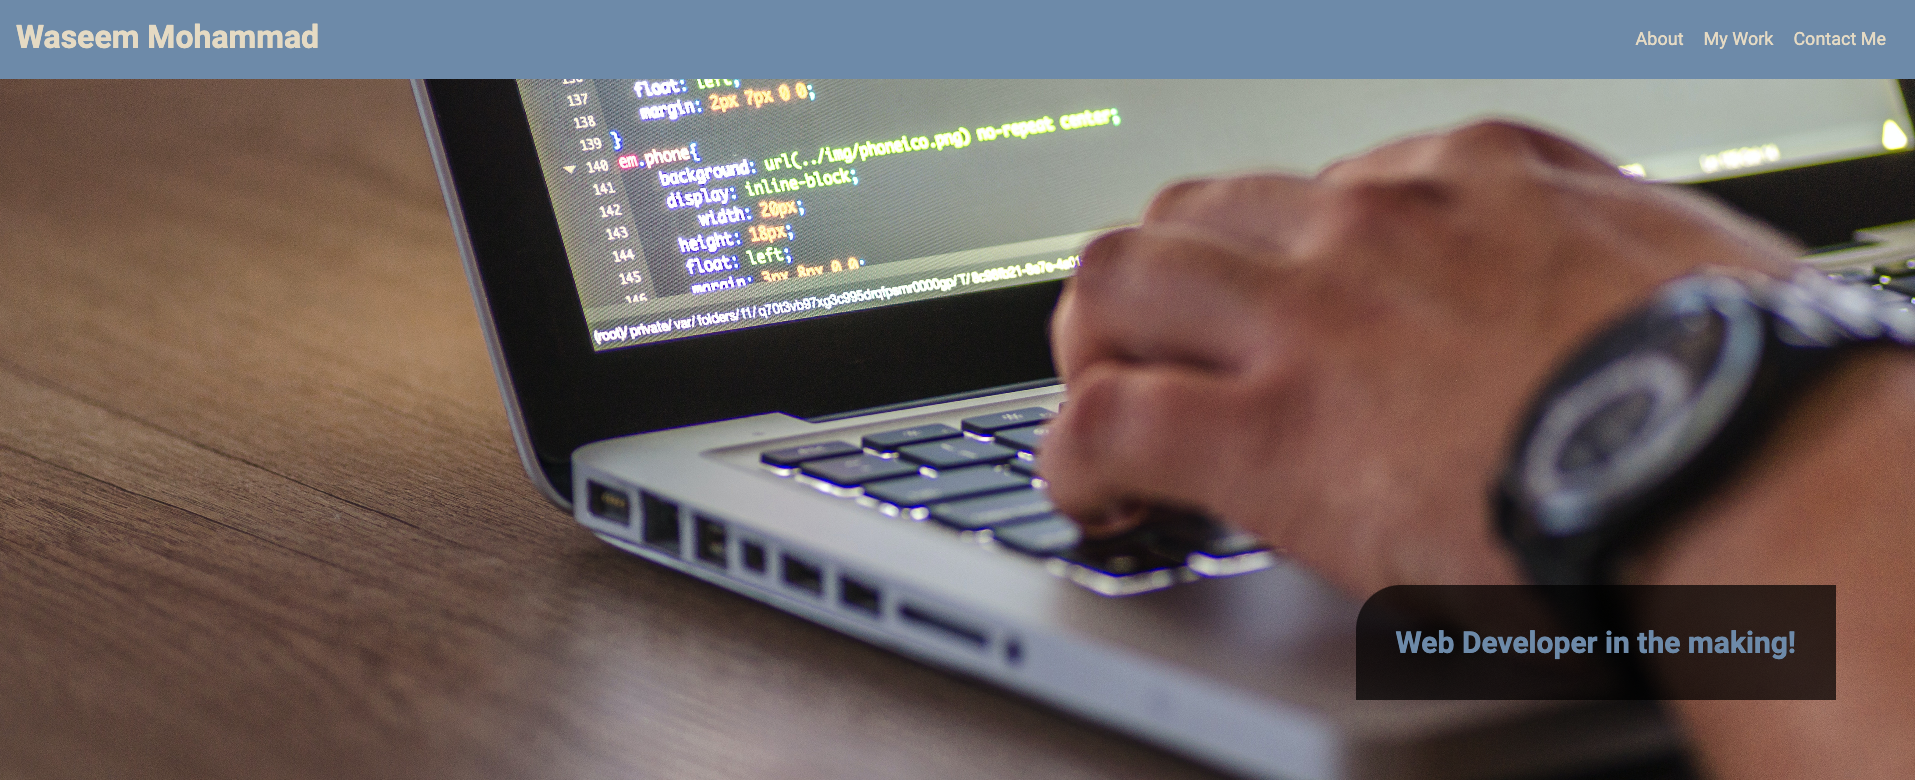
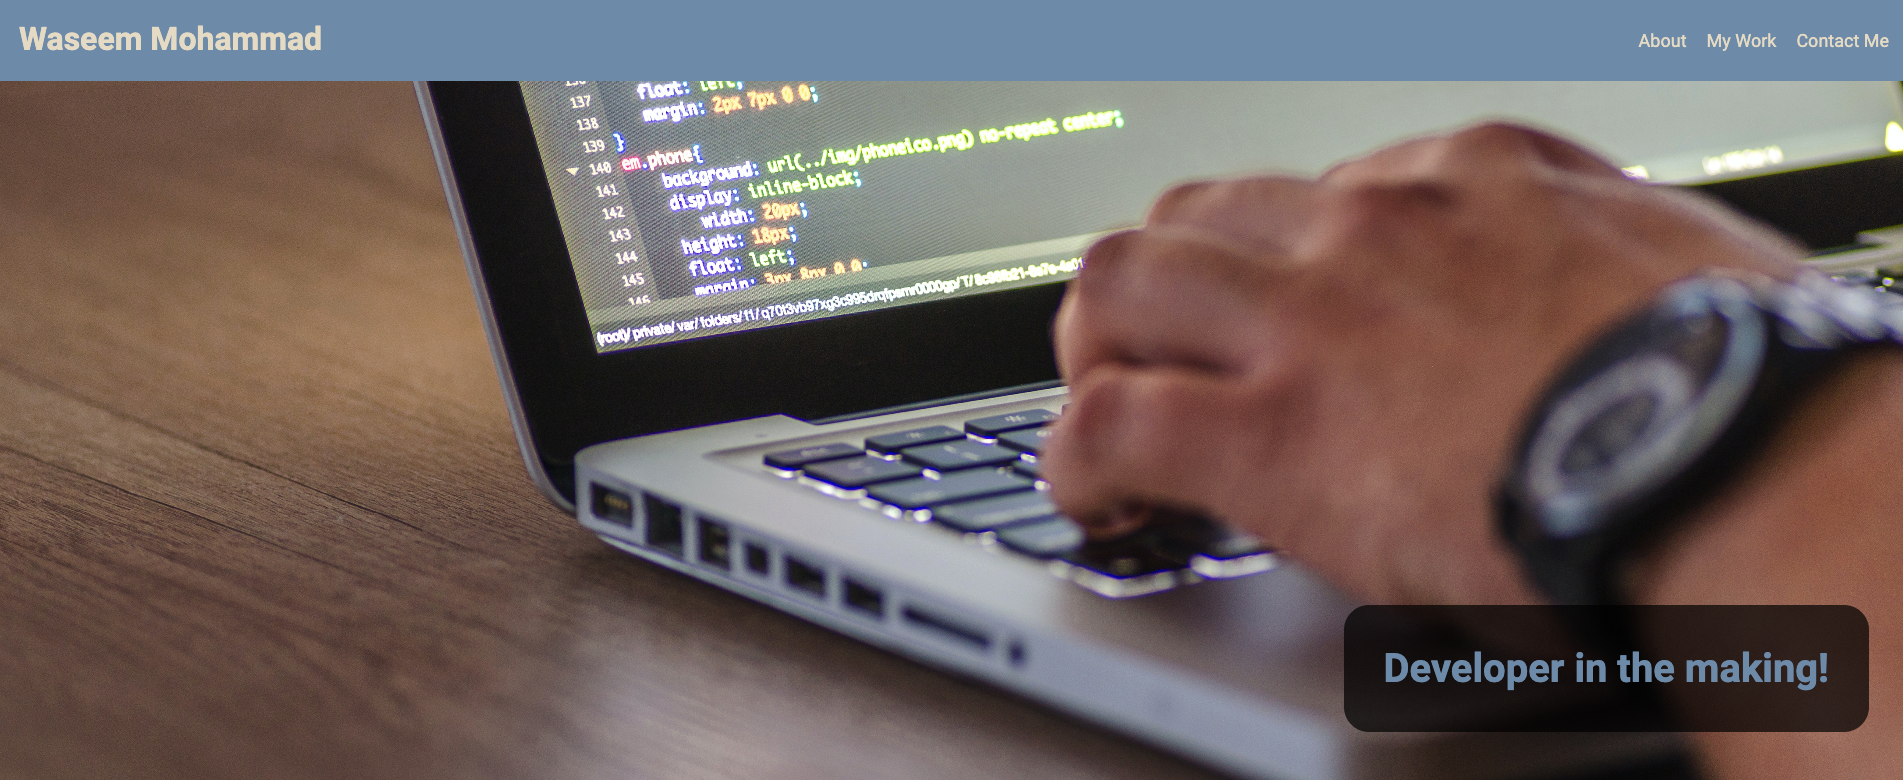
refactor css to clean up code and add comments, change content on README.md file

diff --git a/css/style.css b/css/style.css
@@ -1,6 +1,6 @@
 @import url("https://fonts.googleapis.com/css2?family=Roboto:wght@400;700&display=swap");
 
-/* Document reset */
+/* Document reset, setting the font family and removing the text decoration on a tags */
 * {
   margin: 0;
   padding: 0;
@@ -8,6 +8,7 @@
   text-decoration: none;
 }
 
+/* Smooth scroll */
 html {
   scroll-behavior: smooth;
 }
@@ -24,7 +25,13 @@ body {
   background-color: var(--colourOne);
 }
 
-/* header */
+.page-wrapper {
+  max-width: 1200px;
+  margin: 0 auto;
+  margin-top: 50px;
+}
+
+/* Header elements and classes */
 header {
   color: var(--colourTwo);
   display: flex;
@@ -36,26 +43,26 @@ header {
 header a {
   font-size: 18px;
 }
-
+/* Using flex to shift the navbar to the right */
 .navRight {
   display: flex;
 }
 
 .navRight a {
   padding: 10px;
-  text-decoration: none;
+
   color: var(--colourTwo);
 }
 
+/* Nav hover effect */
 .navRight a:hover {
   color: var(--colourThree);
   text-decoration: underline;
 }
 
 /* Hero Section */
-
 .hero-banner {
-  background-image: url("../images/hero1.jpg");
+  background-image: url("../images/hero.jpg");
   background-repeat: no-repeat;
   background-position: center;
   background-size: 100%;
@@ -67,33 +74,18 @@ header a {
 
 .hero-banner h2 {
   color: var(--colourFour);
-  font-size: 30px;
-  font-weight: 700;
+  font-size: 40px;
   padding: 40px;
   background-color: rgba(0, 0, 0, 0.7);
-  border-radius: 45px 0 0 0;
+  border-radius: 25px 25px 25px 25px;
 }
 
 /* Page Section */
-.page-wrapper {
-  max-width: 1200px;
-  margin: 0 auto;
-  margin-top: 50px;
-}
-
 h2 {
   text-align: center;
-  margin: 80px;
+  margin: 50px;
   color: var(--colourFour);
   font-size: 40px;
-}
-
-.image-cropper {
-  width: 150px;
-  height: 150px;
-  position: relative;
-  overflow: hidden;
-  border-radius: 20px 20px;
 }
 
 #aboutGrid {
@@ -112,16 +104,19 @@ h2 {
   background-size: 100%;
   padding: 10px;
   border: 3px solid var(--colourFour);
+  width: 175px;
+  height: 150px;
+  position: relative;
+  overflow: hidden;
+  border-radius: 20px 20px;
 }
 
 #aboutMe {
   grid-area: txt;
 }
 
-/* My Work */
-.projects {
-  text-decoration: none;
-}
+/* My work section using css grid */
+
 #projectsGrid {
   margin: 0 auto;
   display: grid;
@@ -143,10 +138,6 @@ h2 {
   transition: box-shadow 0.25;
 }
 
-#project1:hover {
-  box-shadow: 0 5px 15px 5px var(--colourFour);
-}
-
 #project2 {
   grid-area: p2;
   background-image: url("../images/prework.png");
@@ -155,10 +146,6 @@ h2 {
   background-color: var(--colourThree);
   margin: 10px;
   border-radius: 15px;
-}
-
-#project2:hover {
-  box-shadow: 0 5px 15px 5px var(--colourFour);
 }
 
 #project3 {
@@ -170,28 +157,30 @@ h2 {
   margin: 10px;
   border-radius: 15px;
 }
+
+#project1:hover,
+#project2:hover,
 #project3:hover {
-  box-shadow: 0 5px 15px 5px var(--colourFour);
+  box-shadow: 0 5px 15px 5px var(--colourThree);
 }
 
 a .text {
   display: flex;
-  align-items: flex-end;
   justify-content: center;
-  color: white;
+  color: var(--colourThree);
   padding: 10px;
   background-color: rgba(0, 0, 0, 0.7);
   border-radius: 15px 15px 0 0;
 }
 
-/* Contact */
+/* Contact me section */
 input[type="email"],
 textarea {
   width: 100%;
   padding: 12px 20px;
   margin: 8px 0;
   display: inline-block;
-  border: 1px solid #ccc;
+  border: 1px solid var(--colourFour);
   border-radius: 4px;
   box-sizing: border-box;
 }
@@ -225,35 +214,42 @@ button:hover {
 footer {
   text-align: center;
   background-color: var(--colourFour);
-  height: 80px;
-  margin-top: 59px;
+  height: 120px;
+  margin-top: 60px;
 }
 
 footer p {
-  padding: 30px;
+  padding: 40px;
   color: var(--colourTwo);
 }
 
-/* Media queries */
+/* Media queries to make the webpage responsive to different sizes */
+/* Media query for max width of 1000px */
 @media only screen and (max-width: 1000px) {
   nav {
     display: none;
   }
+  #aboutGrid {
+    grid-template-rows: 75px 220px;
+    grid-template-columns: 1fr 2fr;
+    grid-template-areas: "pic txt";
+  }
+  .page-wrapper {
+    margin: 0 15px;
+  }
 }
-
+/* Media query for max width of 600px */
 @media only screen and (max-width: 600px) {
   header {
     justify-content: center;
   }
-
   #aboutGrid {
-    grid-template-rows: 200px 280px;
+    grid-template-rows: 200px 500px;
     grid-template-columns: 1fr;
     grid-template-areas:
       "pic"
       "txt";
   }
-
   #projectsGrid {
     grid-template-rows: 150px 150px 150px;
     grid-template-columns: 1fr;
@@ -262,35 +258,26 @@ footer p {
       "p2"
       "p3";
   }
-
   #me {
     margin: 0 auto;
   }
-
   #aboutMe {
     margin: 0 20px;
     text-align: center;
     /* margin-bottom: 150px; */
   }
-
   .hero-banner {
     display: flex;
     height: 30vh;
     justify-content: center;
     align-items: flex-end;
   }
-
   .hero-banner h2 {
     color: var(--colourFour);
     font-size: 20px;
     padding: 10px;
     border-radius: 5px 5px 5px 5px;
   }
-
-  h2 {
-    margin: 0;
-  }
-
   form {
     margin: 0 10px;
   }

diff --git a/index.html b/index.html
@@ -36,21 +36,28 @@
       <section id="about">
         <h2>About Me</h2>
         <div id="aboutGrid">
-          <div id="me" class="image-cropper">
+          <div id="me" class="myPic">
             <!-- <img src="./images/me.jpeg" class="me" /> -->
           </div>
           <div id="aboutMe">
             <p>
               Hi I’m waseem an aspiring developer in the making, I started my
-              career as a dispensing optician in 2007 where I developed in
-              interest in technology. I went in to take some certifications and
-              started my journey in IT support and currently working as a IT
-              Cluster Manager supporting teaching staff and students across 9
-              academies. Working with various colleagues, I started looking at
-              programming and web development and after going through some
-              tutorials on YouTube and Udemy, I decided to enrol onto a front
-              end Bootcamp to learn more about web development where I will be
-              taking my career as a web developer.
+              career as a dispensing optician in 2007 where I developed an
+              interest in IT and technology. I went in to take some
+              certifications to kickstart my career within an IT support role
+              and I have worked my way up to a IT Cluster Manager role
+              supporting teaching staff and students across 9 academies. I
+              developed an interest in programming through a friend and through
+              his aspirations I started looking into programming and web
+              development and after going through some tutorials on YouTube and
+              Udemy, I decided that this is something I want to do and enrolled
+              onto a front end Bootcamp to learn more about web development.
+            </p>
+            <p>
+              so far through my studies, not only have I learned about HTML and
+              CSS, but I have also learned about the importance of creating
+              responsing web pages using CSS grids and flexbox and the next
+              stage is going to be working with JavaScript.
             </p>
           </div>
         </div>
@@ -58,7 +65,7 @@
 
       <!-- portfolio container -->
 
-      <section class="projects">
+      <section>
         <div>
           <h2 id="work">Work</h2>
         </div>

diff --git a/README.md b/README.md
@@ -2,7 +2,9 @@
 
 ## Description
 
-The aim of this task was to create a portfolio webpage to showcase my work to potential employers. This will allow recruiters to look at my work which I been doing and as time goes on, this will be updated to show my latest work where I will also be able to see my own progress.
+The aim of this task was to create a portfolio webpage to showcase my work to potential employers. This will allow recruiters to look at my work which I have been doing.
+
+My portfolio page will also give me an indication of my own progress as time goes on with various projects being added.
 
 ## Sample Image
 The image below is a screenshot of what the web page looks like. 
@@ -10,7 +12,7 @@ The image below is a screenshot of what the web page looks like.
 ![My portfolio webpage includes a navigation bar, a header image, my cork section and a contact section](assets/projectPic.png)
 
 ## Review
-This page has a responsive design created with grid and flexbox which is mobile frendly. The work area has a screenshot of the webpage created with a hover effect and once it is clicked, it will open a new tab to the linked page.  
+This page has a responsive design created with css grid and flexbox which is mobile frendly. The work area has a screenshot of the webpage created with a hover effect and once it is clicked, it will open a new tab to the linked page.  
 
 ## Project URL
 
